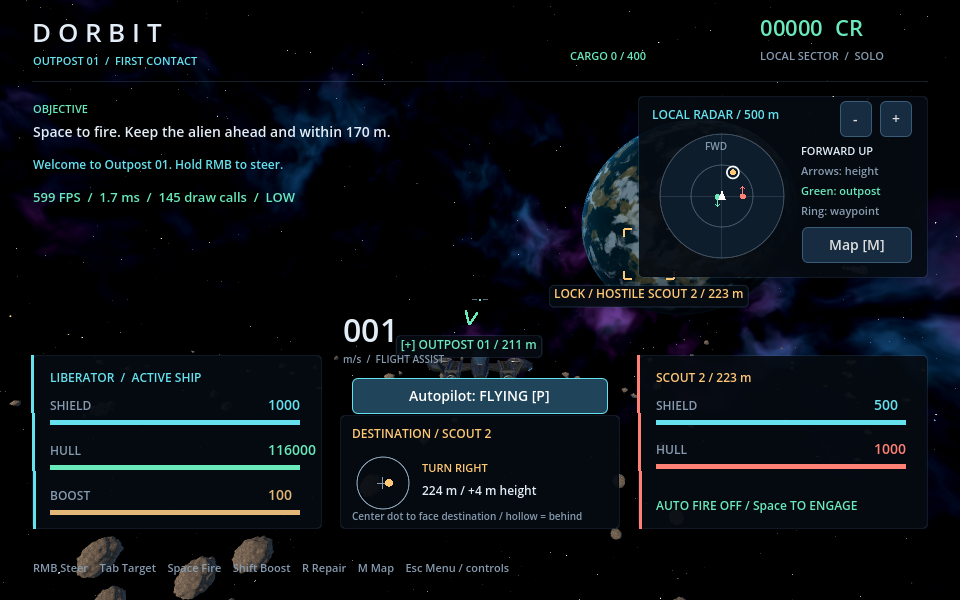
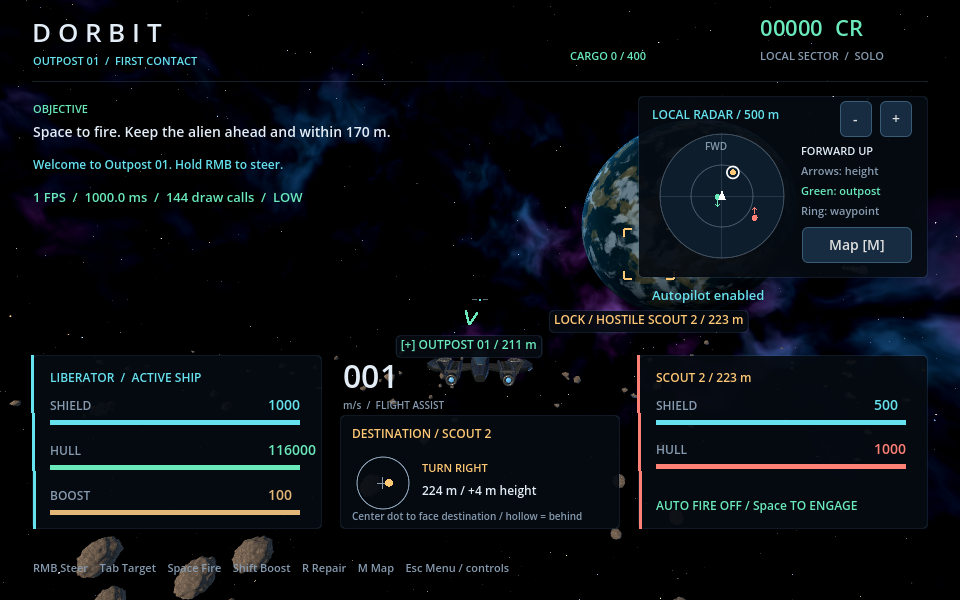
fix: show compact autopilot status below radar

diff --git a/README.md b/README.md
@@ -40,8 +40,9 @@ Choosing an alien also selects it for combat. Choosing the outpost or another
 pilot clears the combat target. M or Esc returns to flight. Multiplayer keeps
 running while the overview is open.
 
-Press **P** or click **Autopilot** above the destination compass to fly to the
-selected alien, friendly pilot or outpost. P can be rebound in Settings. Clear
+Press **P** to fly to the selected alien, friendly pilot or outpost. A small
+**Autopilot enabled** label below the top-right radar appears while active.
+P can be rebound in Settings. Clear
 travel follows the shortest straight 3D route; obstacles use the shortest route
 through sampled detour points, an approximation around the actual colliders.
 Autopilot uses cruise speed and brakes to stop 20 m from ships or 50 m from the
@@ -49,18 +50,18 @@ outpost, within service range. It follows moving contacts without enabling
 automatic fire or boost. Press P again, move or steer manually, change targets,
 or open a menu to cancel. Target loss, rescue and disconnect also cancel it.
 Radiation guidance takes priority until re-entry. A blocked route stops autopilot
-with a message. The HUD button shows the flight state or stopping reason.
+with a message.
 
 `tests/autopilot_test.gd` exercises direct and vertical travel, braking, real
 asteroid detours, moving destinations, station arrival, cancellation and normal
 authoritative ENet movement. Both check runners include it. Run with a renderer
-to exercise the HUD button with mouse input and save 960 x 600 and 1440 x 900
+to exercise the keyboard toggle and status label, and save 960 x 600 and 1440 x 900
 captures under `build/validation`.
 
 Review the [960 x 600 autopilot HUD](docs/feedback/autopilot-960.png) and
 [1440 x 900 HUD](docs/feedback/autopilot-1440.png). The Windows check suite passed
-on 7 October 2026; the final autopilot fixture passed 35 rendered assertions,
-including rebound keyboard and real mouse input. Linux execution is left to PR
+on 7 October 2026; the autopilot fixture passed 37 rendered assertions,
+including rebound keyboard input and status visibility. Linux execution is left to PR
 CI. Routes and arrival tuning still need human playtesting.
 
 The destination compass shows where to turn, distance and relative height.

diff --git a/GAME_PLAN.md b/GAME_PLAN.md
@@ -52,8 +52,10 @@ The following controls are agreed as the starting layout. Check comfort and usab
 Flight should have noticeable weight and inertia while staying responsive and arcade-like. Ships retain momentum through turns, build speed gradually, and use assisted braking on release plus stronger counter-thrust when reversing. Mouse steering eases over a few frames. There is no unlimited coasting or manual braking requirement.
 
 The user requested toggled autopilot to the selected target by the shortest route.
-P (rebindable) or the button above the destination compass enables it for the
-current alien, friendly pilot or outpost destination. It flies directly in full
+P (rebindable) enables it for the current alien, friendly pilot or outpost
+destination. Following playtesting, the user requested a small "Autopilot enabled"
+label below the top-right radar instead of the large toggle button. The label
+appears only while autopilot is active. It flies directly in full
 3D when clear, otherwise chooses the shortest visible polyline through sampled
 asteroid rings and expanded station corners. These detours approximate the
 continuous shortest route and keep clearance for the ship collider. Flight uses
